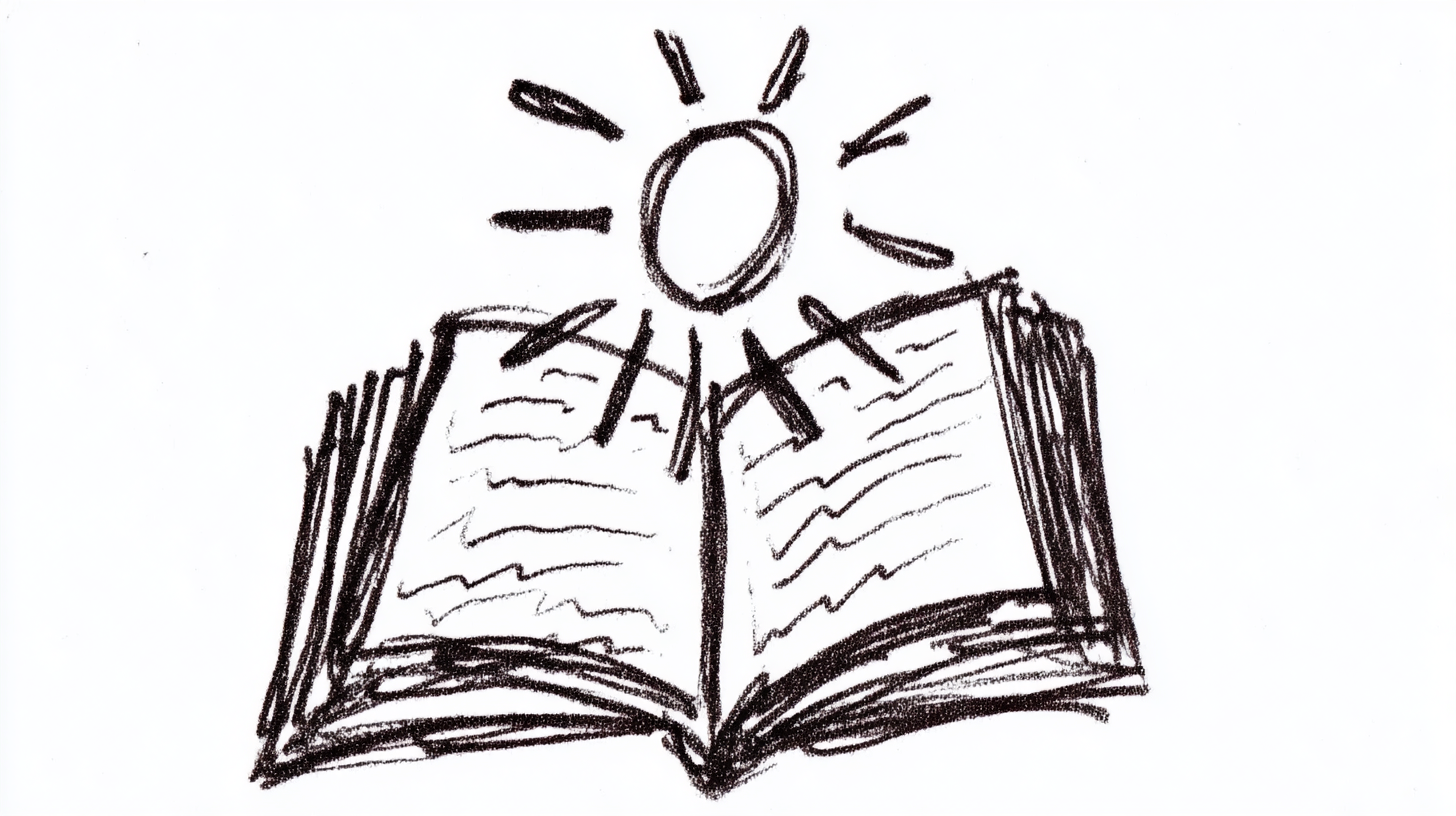
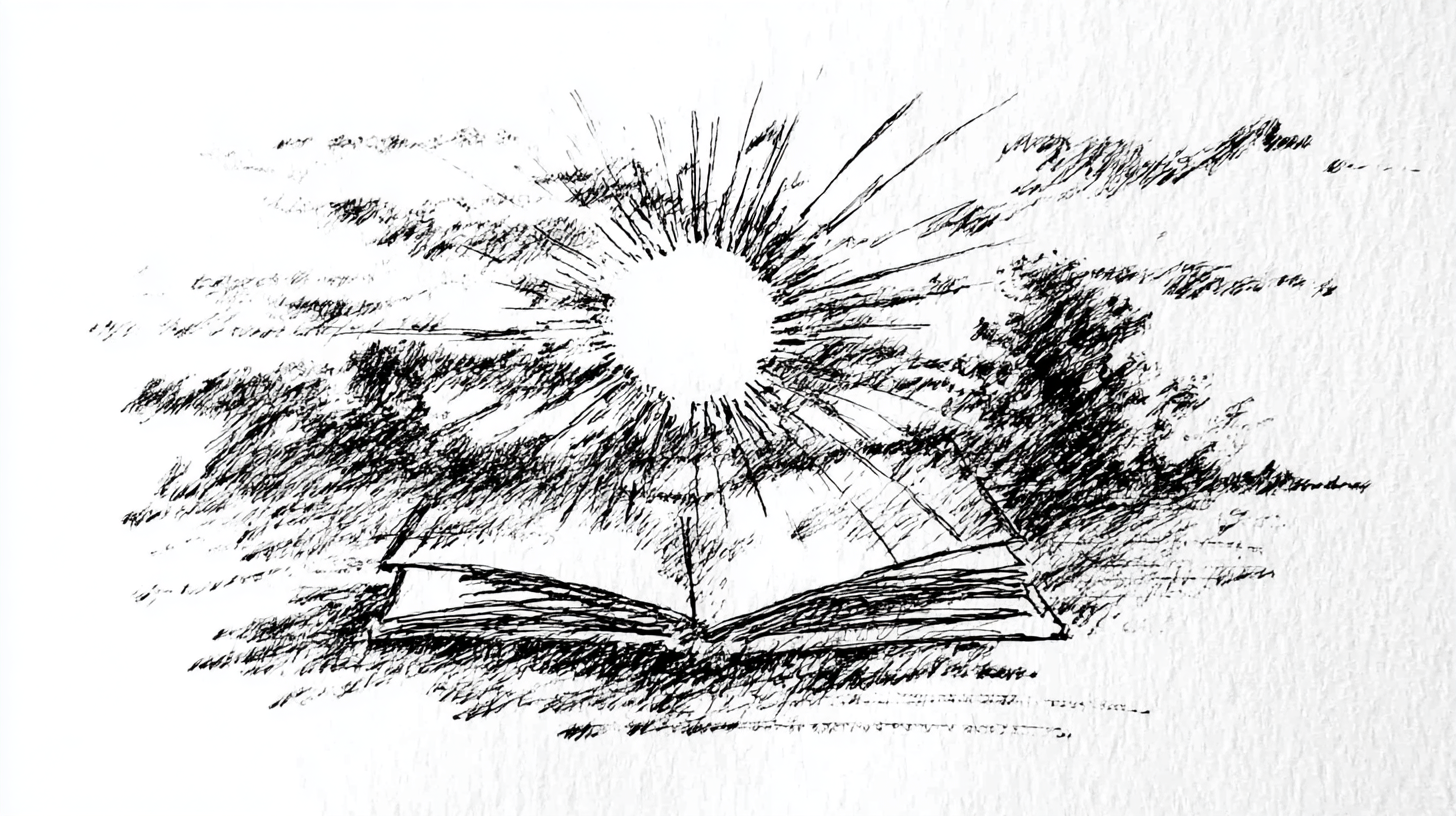
Move conversation-inclusion line above globe image; update open-communication images

diff --git a/_posts/2026-01-18-open-communication.md b/_posts/2026-01-18-open-communication.md
@@ -20,9 +20,9 @@ What has the internet enabled?
 * Complete privacy - Fully encrypted, authenticated messages
 * One to many - Messages sent exactly to the people you want
 
-![Globe](/assets/open-communication/globe.png)
-
 Both of these determine who you include in the conversation, whether you're concious of it or not.
+
+![Globe](/assets/open-communication/globe.png)
 
 Open communication is the key
 ---